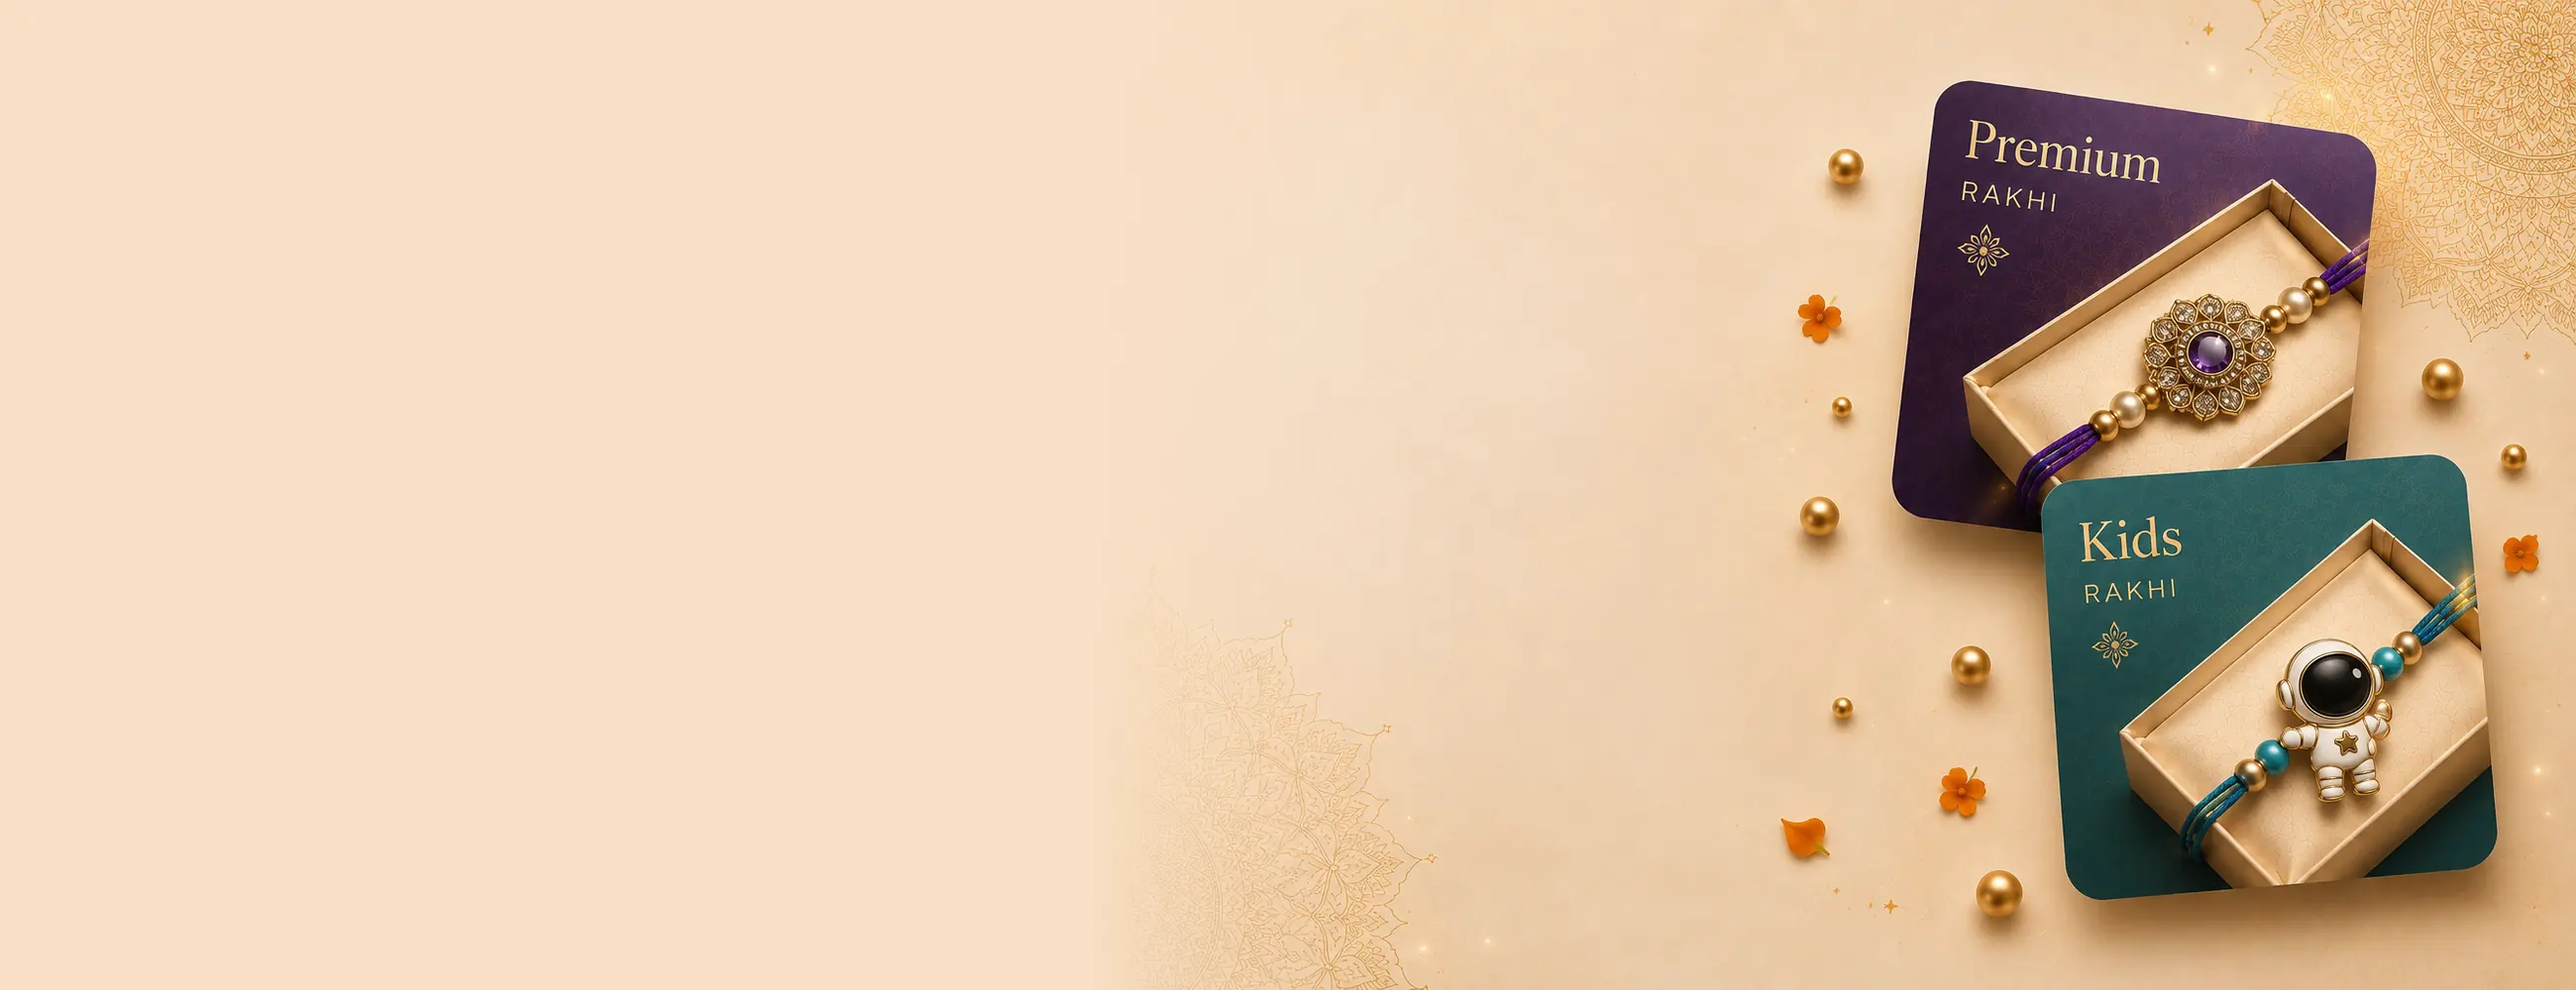
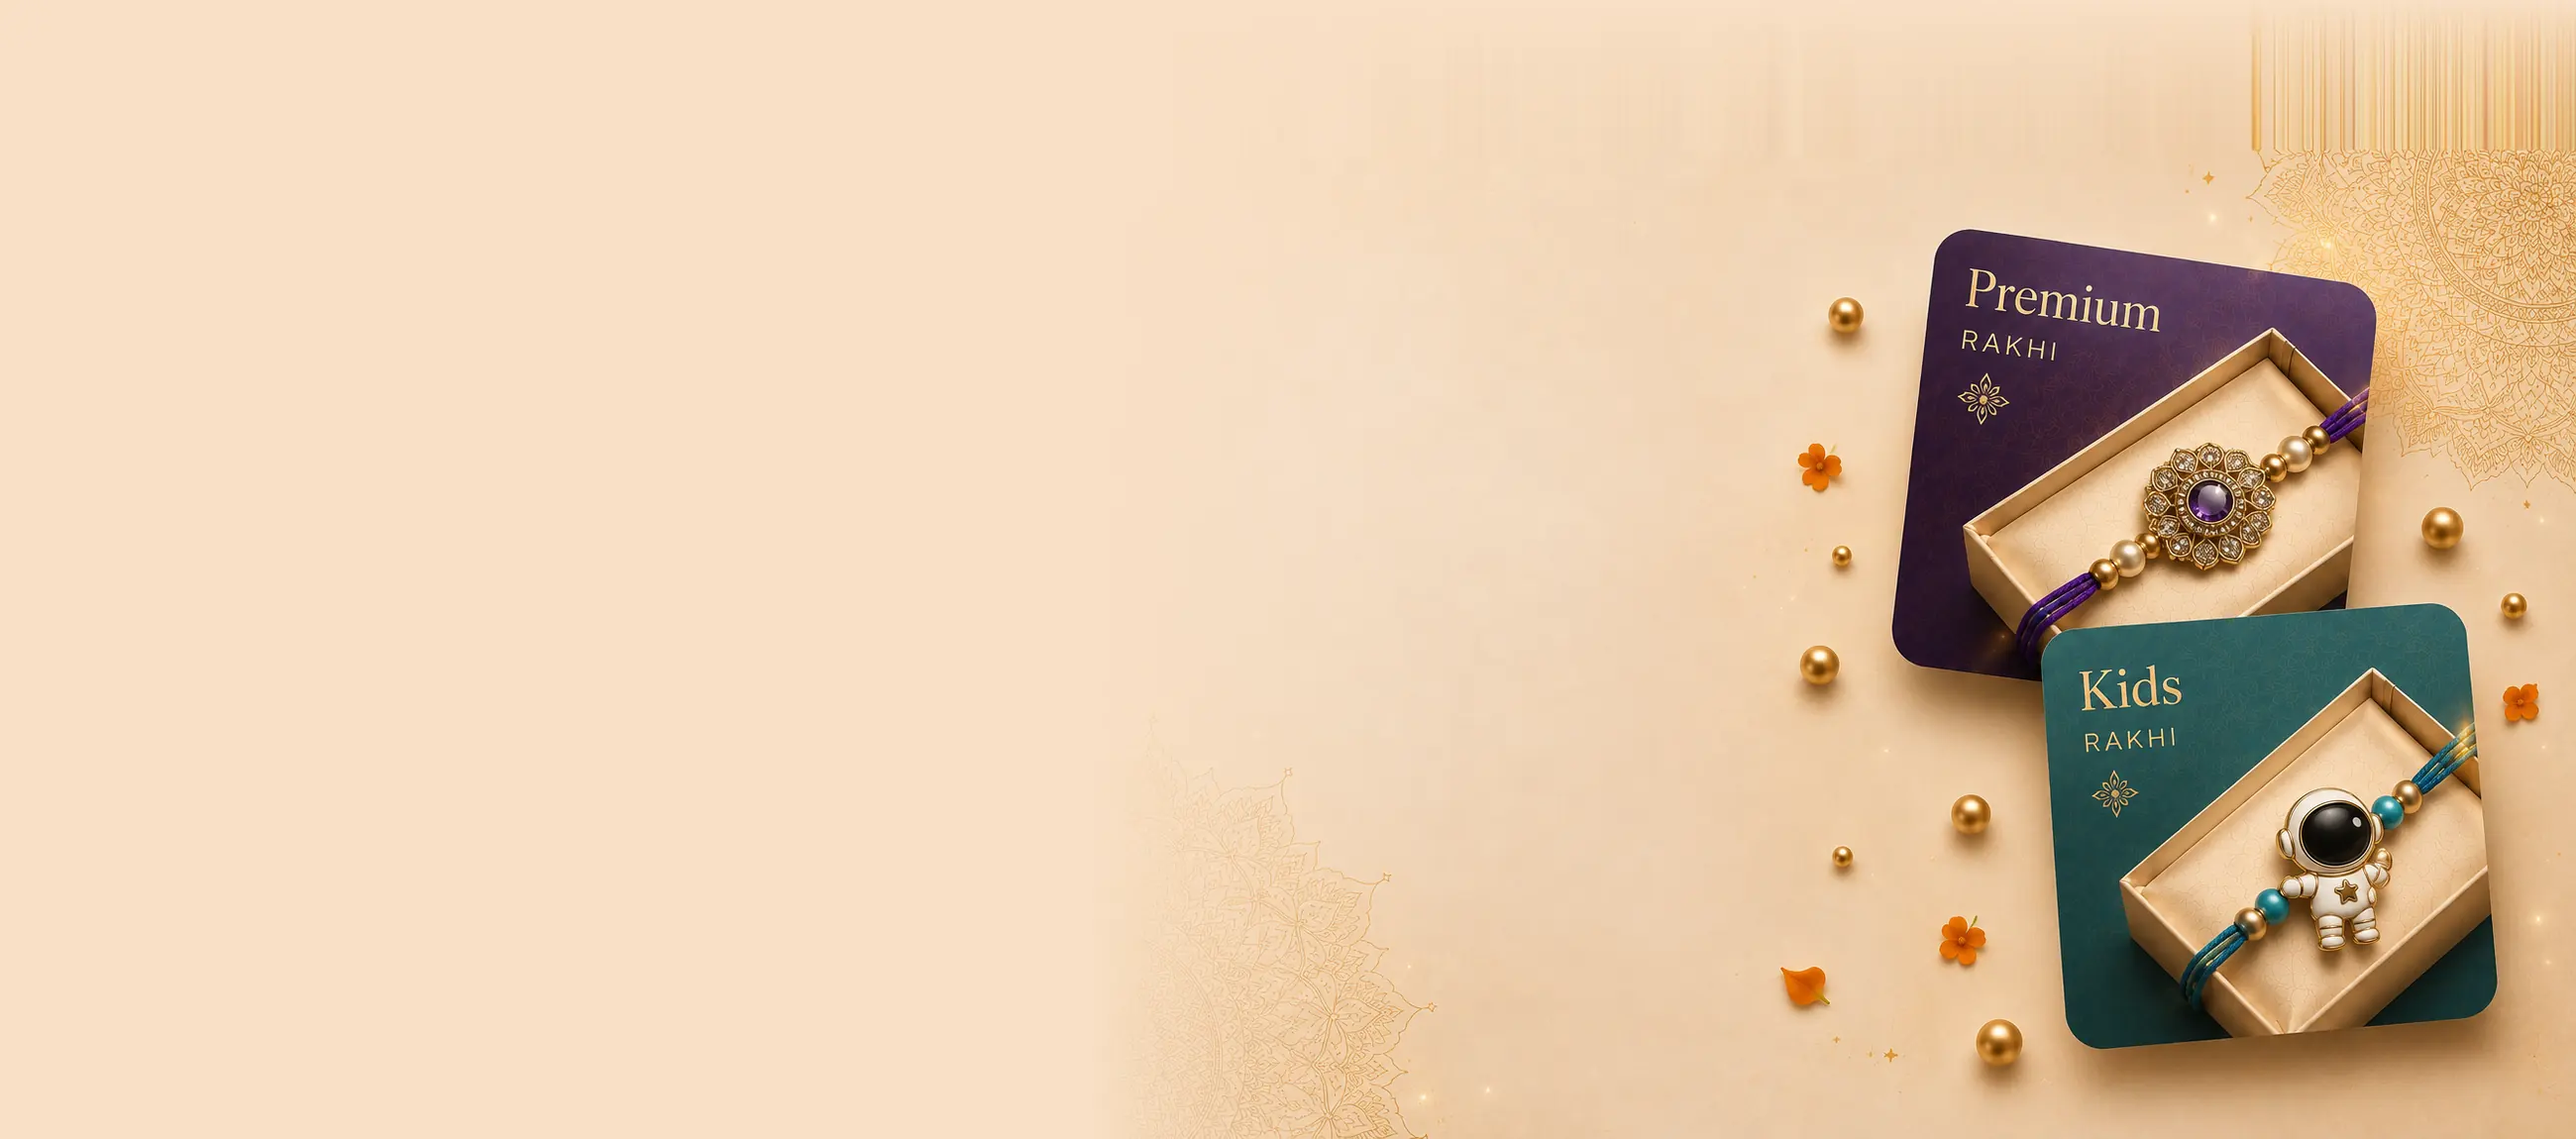
The bar has no background; the hero runs up behind it
Matching the pill to the hero was never going to work — the hero is a
photograph, and it changes every seven seconds. So the bar has no fill
at all while it is over it. The hero's own card stock is the
background and the bar is only the things in it: no corners, nothing
cut out, nothing to match.

Fixed rather than sticky, so it takes no room in the flow. Sticky left
a strip of page above the picture, and that strip is plain cream while
the picture is card stock — near enough to look like a mistake, far
enough apart to see. There is no strip now; the hero begins at the top
of the window and takes the full height, less the sliver that says the
page carries on.

Past the hero it takes a surface again, because below there it floats
over the catalogue and text scrolling under text cannot be read. One
pixel watched by an observer decides which, so nothing runs on the
frames in between.

Two things that fell out of it:

With no fill, COLLECTION through QUESTIONS were dark text sitting on a
dark purple box. A wash over the top would have fixed the reading and
dulled the boxes, which is the one thing this picture is for — so the
picture makes room instead: 150px of headroom above the photograph,
washed back into flat stock as it rises so the mandala does not carry
upward as vertical streaks.

Anything jumped to by anchor now stops clear of a bar that no longer
occupies space.

Not pushed.

diff --git a/src/shop/styles/04-nav.css b/src/shop/styles/04-nav.css
@@ -1,5 +1,11 @@
-/* ── nav: floating glass pill. No search bar. ── */
-.nav{position:sticky; top:0; z-index:50; padding:8px 10px 0}
+/* ── nav: the things in a bar, with no bar behind them. No search. ── */
+/* Fixed rather than sticky, so it takes no room in the flow and the hero
+   begins at the top of the window instead of under it. Sticky left a strip
+   of page above the picture, and that strip is plain cream while the
+   picture is card stock — near enough to look like a mistake, far enough
+   apart to see. Now there is no strip: the hero runs to the top and the bar
+   sits on it. */
+.nav{position:fixed; top:0; left:0; right:0; z-index:50; padding:8px 10px 0}
 @media (min-width:900px){.nav{padding:14px clamp(14px,3vw,28px) 0}}
 .nav-in{
   max-width:1240px; margin:0 auto; display:flex; align-items:center; gap:10px;
@@ -22,8 +28,23 @@
    neutral one. Same material as the countdown pill under it
    and the marks at the foot of the hero.
    ══════════════════════════════════════════════════════════ */
+/* ── over the hero: nothing at all ──
+   Any fill here is a panel laid on the picture, and a pill with its own
+   corners on card stock that goes on past them reads as a cut-out. The
+   hero's own stock is the background; the bar is only the things in it.
+   That is also why the picture keeps its empty top-left half — there was
+   never anything for the words up there to compete with. */
 .nav-in{
-  border:0;
+  border:0; background:transparent; box-shadow:none;
+  transition:background .45s var(--ease), box-shadow .45s var(--ease),
+             backdrop-filter .45s var(--ease);
+}
+
+/* ── past it: a surface, because now it needs one ──
+   Below the hero the bar floats over the catalogue, and text scrolling
+   underneath text is unreadable. It takes the same ivory and gold rim
+   everything raised on this page is made of. */
+body.nav-solid .nav-in{
   background:linear-gradient(158deg, #FFFEFA 0%, #FDF8EE 54%, #F8F1E1 100%);
   box-shadow:
     inset 0 1px 0 rgba(255,255,255,.95),        /* the sheen along the top */
@@ -31,16 +52,14 @@
     0 14px 34px -18px rgba(120,88,22,.42),
     0 2px 8px -4px rgba(120,88,22,.18);
 }
-/* Wide screens keep the blur — over a photograph that is what stops the bar
-   reading as a sticker. Phones drop it: it costs more to scroll than it is
-   worth, so they take the solid mix instead. */
 @media (min-width:900px){
-  .nav-in{
+  body.nav-solid .nav-in{
     background:linear-gradient(158deg, rgba(255,254,250,.88) 0%, rgba(253,248,238,.82) 54%, rgba(248,241,225,.78) 100%);
     -webkit-backdrop-filter:blur(16px) saturate(1.45);
     backdrop-filter:blur(16px) saturate(1.45);
   }
 }
+@media (prefers-reduced-motion:reduce){.nav-in{transition:none}}
 /* the diagonal white streak the glass panel carries is too cool for this
    surface — the sheen above does the same job in the right colour */
 .nav-in::before{display:none}

diff --git a/src/shop/js/04-hero.js b/src/shop/js/04-hero.js
@@ -146,3 +146,28 @@
   mark();
   start();
 })();
+
+/* ══════════════════════════════════════════════════════════
+   THE BAR'S BACKGROUND, OR THE LACK OF ONE
+
+   Over the hero it has none — it is the hero's own card stock,
+   which is the only way a floating bar over a picture avoids
+   reading as a panel cut out and laid on top of it. Once the
+   hero has gone past, it needs one: below here the bar floats
+   over the catalogue, and text scrolling under text cannot be
+   read.
+
+   A watcher on one pixel rather than a scroll handler. The
+   browser reports the crossing itself; nothing runs on the
+   frames in between, which is the difference between this and
+   a listener that fires all the way down the page.
+   ══════════════════════════════════════════════════════════ */
+(() => {
+  const mark = document.createElement("div");
+  mark.setAttribute("aria-hidden", "true");
+  mark.style.cssText = "position:absolute;top:64px;left:0;width:1px;height:1px;pointer-events:none";
+  document.body.appendChild(mark);
+  new IntersectionObserver(([e]) => {
+    document.body.classList.toggle("nav-solid", !e.isIntersecting);
+  }).observe(mark);
+})();

diff --git a/src/shop/styles/05-hero.css b/src/shop/styles/05-hero.css
@@ -26,12 +26,16 @@
   /* well under half a phone screen — what is below the fold has to be
      worth scrolling to, and a hero that fills the window says there is
      nothing under it */
-  min-height:min(44vh,420px);
+  min-height:min(50vh,470px);
   /* On a phone the words start at the top rather than sitting centred with
      the picture. Centred, the date pill came down level with the boxes and
-     crossed the corner of one; up here it has the empty stock to itself. */
+     crossed the corner of one; up here it has the empty stock to itself.
+
+     The bar is fixed and takes no room of its own, so the picture now runs
+     up behind it — which means this padding has to clear it, or the date
+     pill sits under the brand mark. */
   align-items:flex-start;
-  padding-top:clamp(16px,4.5vw,30px);
+  padding-top:clamp(84px,22vw,104px);
 }
 @media (min-width:760px){
   /* The boxes are scaled by the hero's height — the photograph sits at full
@@ -52,7 +56,9 @@
      like the end of the site; make it 50px and it stops being a hint and
      starts being a gap. */
   .hero{
-    min-height:max(600px, calc(100vh - 104px));
+    /* the whole window now, less the sliver that says the page carries on —
+       the header no longer takes a bite out of the top */
+    min-height:max(600px, calc(100vh - 24px));
     align-items:center; padding-top:0;
   }
 }

diff --git a/src/shared/styles/00-tokens.css b/src/shared/styles/00-tokens.css
@@ -55,7 +55,8 @@
 }
 
 *{margin:0; padding:0; box-sizing:border-box; -webkit-tap-highlight-color:transparent}
-html{scroll-behavior:smooth; -webkit-text-size-adjust:100%}
+/* the bar is fixed, so anything jumped to must stop clear of it */
+html{scroll-behavior:smooth; -webkit-text-size-adjust:100%; scroll-padding-top:96px}
 body{
   background:var(--bg); color:var(--ink); font-family:var(--body);
   font-size:15px; line-height:1.6; overflow-x:hidden; -webkit-font-smoothing:antialiased;
